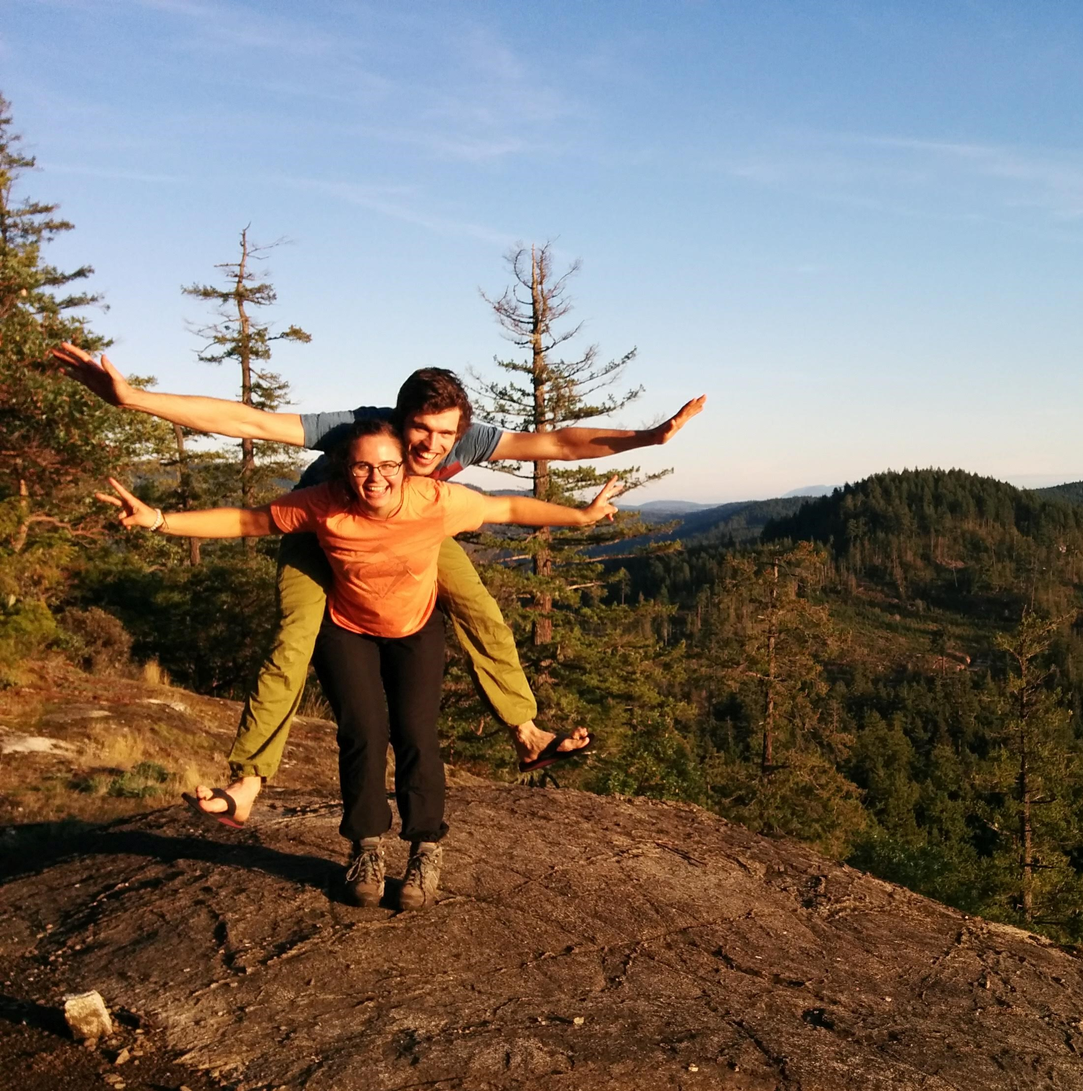
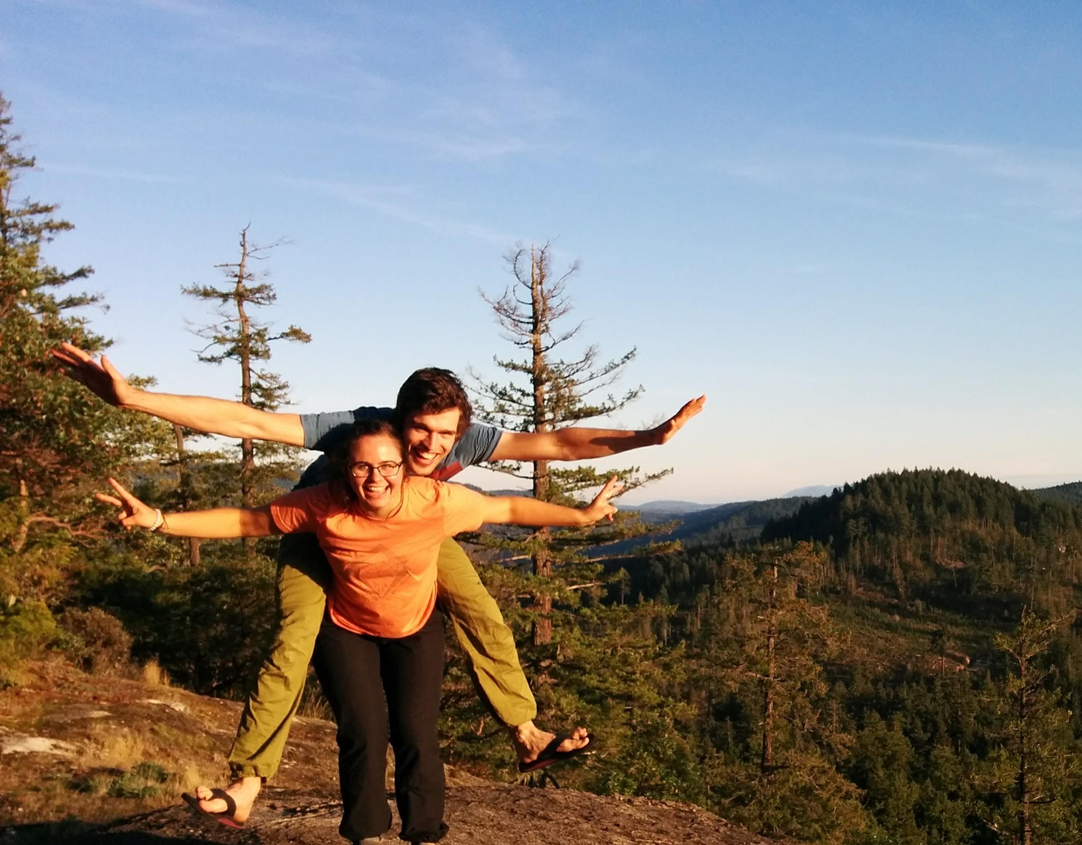
compress image for faster load

diff --git a/html/index.html b/html/index.html
@@ -8,7 +8,7 @@
     </head>
     <body class="img1">
         <div class="banner banner-first">
-            <div class="banner-inside">
+        <div class="banner-inside">
             <a class="link" href="index.html">EN</a> | <a class="link" href="index-fr.html" style="text-decoration: none;">FR</a>
             <p class="names" >Darian Weber & Laurent Bergeron</p>
             <p class="title">would like to invite you to our wedding on July 30th, 2022,</p>

diff --git a/html/index-fr.html b/html/index-fr.html
@@ -8,7 +8,7 @@
     </head>
     <body class="img1">
         <div class="banner banner-first">
-            <div class="banner-inside">
+        <div class="banner-inside">
             <a class="link" href="index.html">EN</a> | <a class="link" href="index-fr.html">FR</a>
             <p class="names" >Darian Weber & Laurent Bergeron</p>
             <p class="title">vous invitons &agrave; notre marrige le 30 juillet, 2022,</p>

diff --git a/html/static/script.js b/html/static/script.js
@@ -3,7 +3,7 @@ $(window).scroll(function() {
         $("body").addClass("img1")
         $("body").removeClass("img2")
         $("body").removeClass("img3")
-    } else if ($(window).scrollTop() < 4000) {
+    } else if ($(window).scrollTop() < 3600) {
         $("body").addClass("img2")
         $("body").removeClass("img1")
         $("body").removeClass("img3")
